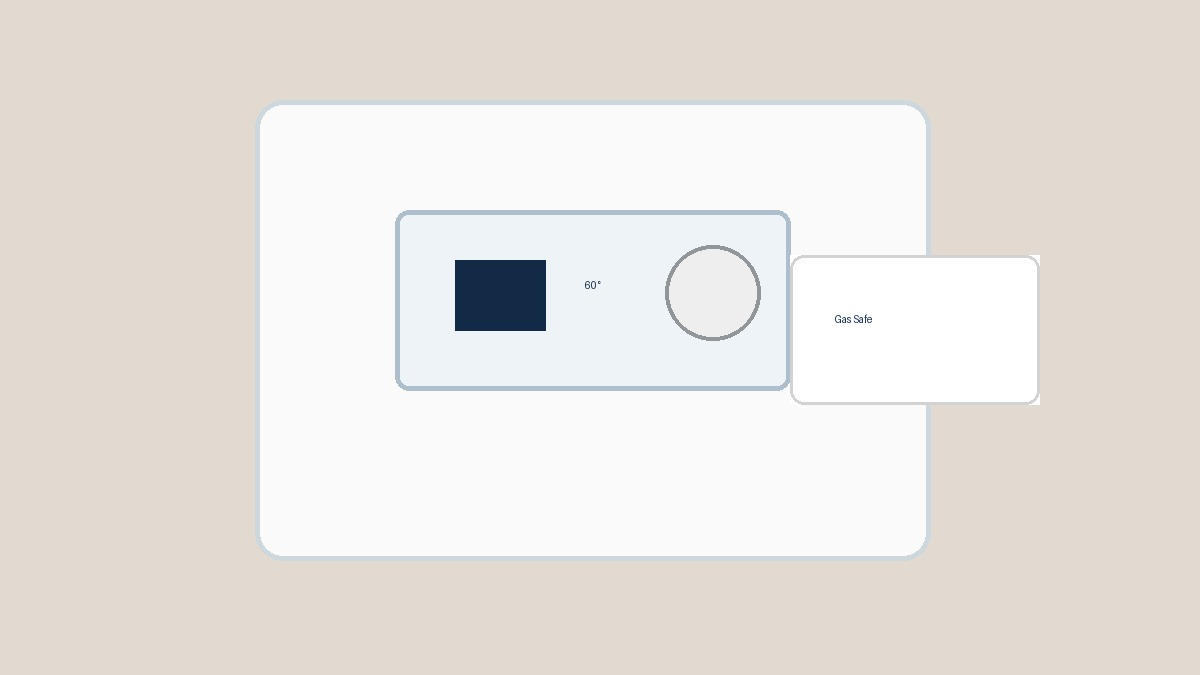
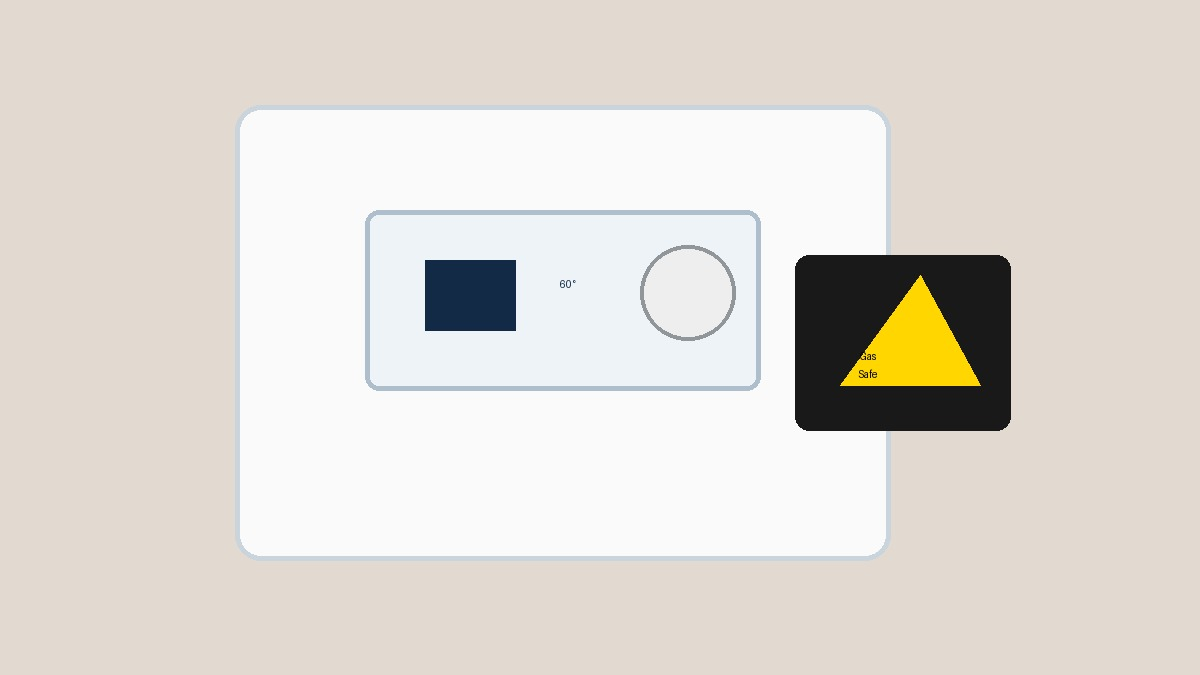
Services tidy

Changed region(s): [[0.185, 0.1556, 0.8633, 0.84], [0.2775, 0.3111, 0.4008, 0.5911], [0.4317, 0.3733, 0.4933, 0.4978]]

diff --git a/assets/css/styles.css b/assets/css/styles.css
@@ -760,3 +760,41 @@ footer {
 .sidebar-card a {
   display: block;
 }
+
+
+/* Service card icon containment fix */
+.service-card {
+  position: relative !important;
+  overflow: hidden !important;
+}
+
+.service-card .service-icon {
+  width: 46px !important;
+  height: 46px !important;
+  min-width: 46px !important;
+  min-height: 46px !important;
+  max-width: 46px !important;
+  max-height: 46px !important;
+  border-radius: 10px !important;
+  display: flex !important;
+  align-items: center !important;
+  justify-content: center !important;
+  overflow: hidden !important;
+  font-size: 22px !important;
+  line-height: 1 !important;
+  box-sizing: border-box !important;
+}
+
+.service-card .service-icon img,
+.service-icon img {
+  max-width: 30px !important;
+  max-height: 30px !important;
+  width: auto !important;
+  height: auto !important;
+  object-fit: contain !important;
+  display: block !important;
+}
+
+.icon-oil {
+  color: #8B5A2B !important;
+}